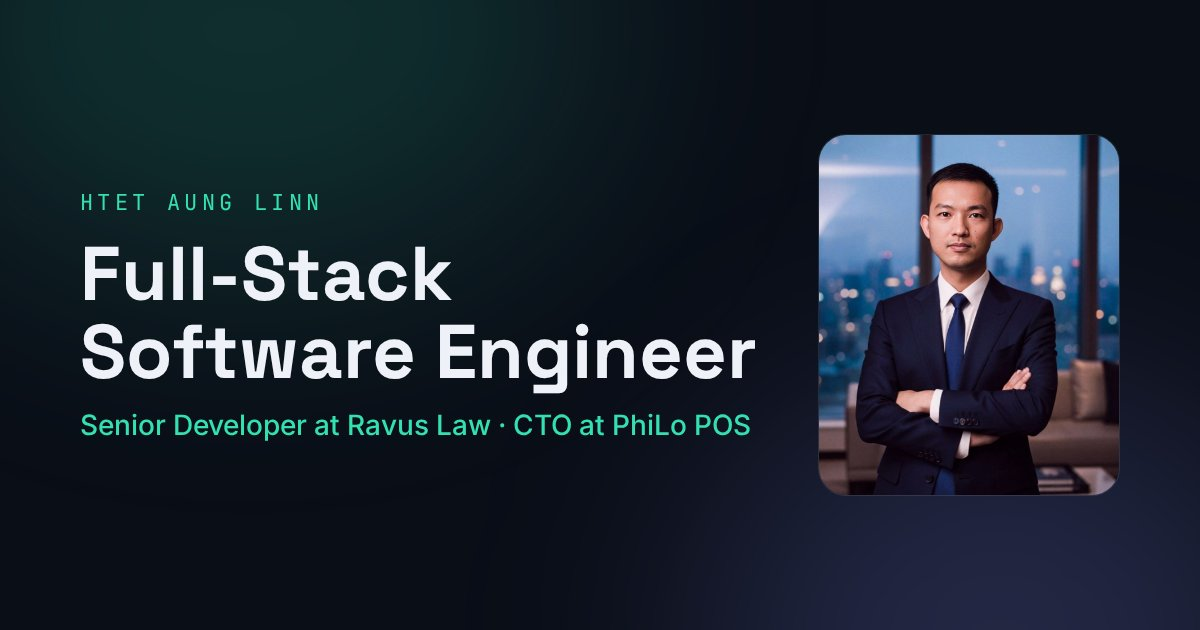
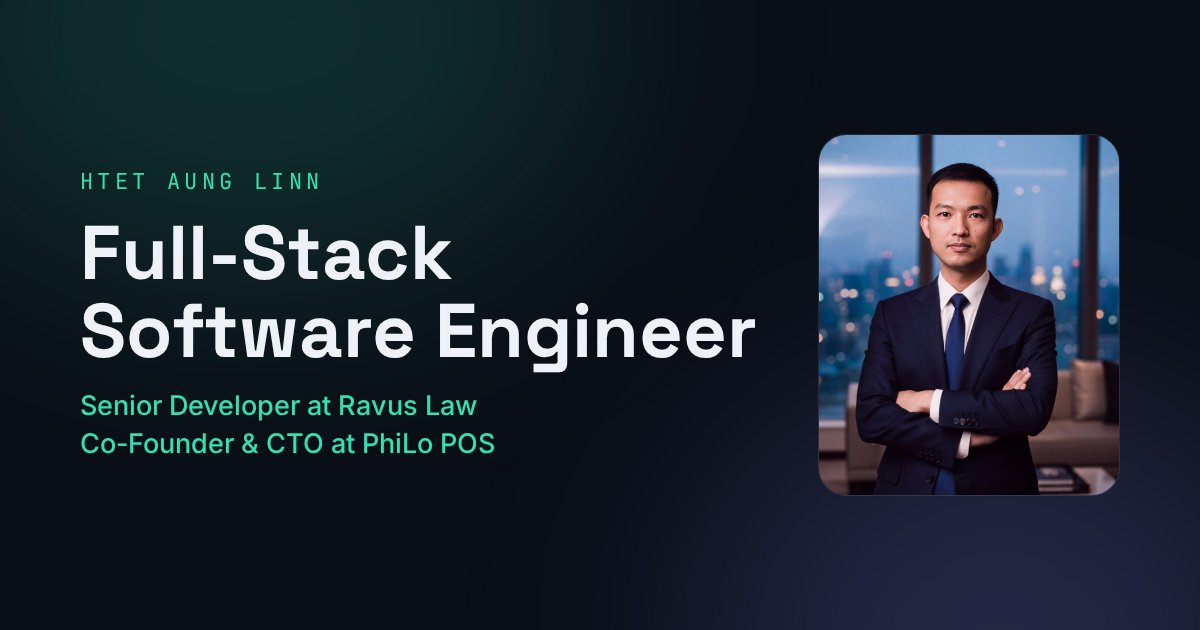
Update portfolio content: Co-Founder & CTO, PhiLo platforms, new screenshots
- PhiLo POS role is now "Co-Founder & CTO" everywhere: hero subtitle,
  role list and floating card, featured badge, About text, Experience
  entry, projects intro, and metadata/OG description and image.
- PhiLo POS product suite: show platforms as chips; the POS app runs on
  Android, iOS, Desktop (Windows), macOS and Web.
- Key features: "Kitchen & receipt printing — laser and thermal
  printers" and "Kitchen display (KDS) & barcode printing" replace
  "Kitchen printers & KDS" and "Barcode printing".
- Location is now Mandalay, Myanmar (hero tag and contact section).
- Add the illustrated workspace image to the About section as a framed,
  lazy-loaded feature image with a subtle hover zoom.
- Retake the Shan Naung Yoe and Estate Myanmar screenshots (1440x900).

Changed region(s): [[0.0617, 0.2714, 0.6475, 0.7238]]

diff --git a/components/sections/about.tsx b/components/sections/about.tsx
@@ -1,3 +1,4 @@
+import Image from "next/image";
 import SectionHeader from "@/components/site/section-header";
 import { Reveal, Stagger, StaggerItem } from "@/components/motion/reveal";
 import { whatIDo } from "@/utils/data/site";
@@ -7,6 +8,25 @@ export default function About() {
         <section id="about" aria-labelledby="about-title" className="border-t border-line py-24 lg:py-32">
             <div className="mx-auto max-w-6xl px-5 sm:px-8">
                 <SectionHeader id="about-title" eyebrow="About me" title="Building Scalable Software. Solving Real-World Problems." />
+                <Reveal className="mb-12 sm:mb-14">
+                    <figure className="group relative overflow-hidden rounded-3xl border border-line bg-surface p-1.5 shadow-2xl shadow-black/40 sm:p-2">
+                        <div
+                            className="pointer-events-none absolute -inset-px rounded-3xl bg-gradient-to-br from-mint/25 via-transparent to-iris/25 opacity-60 transition-opacity duration-500 group-hover:opacity-100"
+                            aria-hidden="true"
+                        />
+                        <div className="relative overflow-hidden rounded-[1.25rem] sm:rounded-[1.4rem]">
+                            <Image
+                                src="/about-workspace.webp"
+                                alt="Illustrated workspace of Htet Aung Linn showing PhiLo POS, Ravus Law and his tech stack"
+                                width={1536}
+                                height={1024}
+                                loading="lazy"
+                                sizes="(min-width: 1152px) 1104px, calc(100vw - 40px)"
+                                className="h-auto w-full transition-transform duration-700 ease-out will-change-transform group-hover:scale-[1.02]"
+                            />
+                        </div>
+                    </figure>
+                </Reveal>
                 <div className="grid gap-10 lg:grid-cols-[1.2fr_.8fr]">
                     <Reveal className="space-y-5 text-[17px] leading-relaxed text-ink-2">
                         <p>
@@ -14,7 +34,7 @@ export default function About() {
                             user-focused software solutions.
                         </p>
                         <p>
-                            Currently, I work as a Senior Developer at Ravus Law and serve as the Chief Technology Officer (CTO) of PhiLo POS, a
+                            Currently, I work as a Senior Developer at Ravus Law and serve as the Co-Founder and Chief Technology Officer (CTO) of PhiLo POS, a
                             point-of-sale software platform designed to help businesses streamline their daily operations.
                         </p>
                         <p className="text-ink-3">

diff --git a/utils/data/site.ts b/utils/data/site.ts
@@ -1,11 +1,11 @@
 export const personal = {
     name: "Htet Aung Linn",
     title: "Full-Stack Software Engineer",
-    subtitle: "Senior Developer at Ravus Law · CTO at PhiLo POS",
+    subtitle: "Senior Developer at Ravus Law · Co-Founder & CTO at PhiLo POS",
     email: "htetaunglinn443@gmail.com",
     phone: "+959779009919",
     phoneDisplay: "+95 9 779 009 919",
-    location: "Yangon, Myanmar",
+    location: "Mandalay, Myanmar",
     resume: "/HtetAungLinn.pdf",
     profile: "/profile.jpg",
 };
@@ -37,15 +37,22 @@ export const whatIDo = [
 
 export const featuredProject = {
     name: "PhiLo POS",
-    role: "CTO",
+    role: "Co-Founder & CTO",
     tagline: "Point-of-sale and inventory for shops and restaurants in Myanmar.",
     description: "A business software platform focused on sales management, inventory workflows, reporting, and operational efficiency.",
-    features: ["Sales & checkout", "Inventory & stock transfer", "Multi-branch", "Reports", "Kitchen printers & KDS", "Barcode printing"],
+    features: [
+        "Sales & checkout",
+        "Inventory & stock transfer",
+        "Multi-branch",
+        "Reports",
+        "Kitchen display (KDS) & barcode printing",
+        "Kitchen & receipt printing — laser and thermal printers",
+    ],
     apps: [
-        { name: "PhiLo POS app", platforms: "Android · Web" },
-        { name: "KDS app", platforms: "Android" },
-        { name: "PhiLo POS Manager", platforms: "Android · iOS" },
-        { name: "Admin panel", platforms: "Web" },
+        { name: "PhiLo POS app", platforms: ["Android", "iOS", "Desktop (Windows)", "macOS", "Web"] },
+        { name: "KDS app", platforms: ["Android"] },
+        { name: "PhiLo POS Manager", platforms: ["Android", "iOS"] },
+        { name: "Admin panel", platforms: ["Web"] },
     ],
     stack: ["PHP API", "TypeScript"],
     url: "https://philo.asia",
@@ -163,7 +170,7 @@ export const skillGroups: { title: string; items: { name: string; icon?: string 
 
 export const experience = [
     { role: "Senior Developer", org: "Ravus Law", text: "Professional software development involving application engineering, technical problem-solving, and maintainable software systems." },
-    { role: "Chief Technology Officer (CTO)", org: "PhiLo POS", link: { href: "https://philo.asia", label: "philo.asia" }, text: "A business software platform focused on sales management, inventory workflows, reporting, and operational efficiency." },
+    { role: "Co-Founder & Chief Technology Officer (CTO)", org: "PhiLo POS", link: { href: "https://philo.asia", label: "philo.asia" }, text: "A business software platform focused on sales management, inventory workflows, reporting, and operational efficiency." },
     { role: "PHP Internship", org: "Softguide", date: "Oct 2023" },
 ];
 

diff --git a/components/sections/projects.tsx b/components/sections/projects.tsx
@@ -58,10 +58,16 @@ function Featured() {
                     </Stagger>
                     <h4 className="mt-8 font-mono text-[11px] uppercase tracking-[0.18em] text-ink-3">The product suite</h4>
                     <ul className="mt-3 grid grid-cols-2 gap-2">
-                        {fp.apps.map((a) => (
-                            <li key={a.name} className="rounded-lg bg-white/[0.03] px-3 py-2.5">
+                        {fp.apps.map((a, i) => (
+                            <li key={a.name} className={`rounded-lg bg-white/[0.03] px-3 py-2.5 ${i === 0 ? "col-span-2" : ""}`}>
                                 <p className="text-sm font-medium text-ink">{a.name}</p>
-                                <p className="font-mono text-[11px] text-ink-3">{a.platforms}</p>
+                                <ul className="mt-1.5 flex flex-wrap gap-1.5" aria-label={`${a.name} platforms`}>
+                                    {a.platforms.map((p) => (
+                                        <li key={p} className="rounded-md border border-line bg-white/[0.03] px-2 py-0.5 font-mono text-[11px] text-ink-2">
+                                            {p}
+                                        </li>
+                                    ))}
+                                </ul>
                             </li>
                         ))}
                     </ul>
@@ -164,7 +170,7 @@ export default function Projects() {
                     id="projects-title"
                     eyebrow="Projects"
                     title="Products I’ve built and shipped"
-                    intro="From a point-of-sale platform I lead as CTO to client and team projects delivered for businesses in Myanmar and Japan."
+                    intro="From a point-of-sale platform I co-founded and lead as CTO to client and team projects delivered for businesses in Myanmar and Japan."
                 />
                 <Featured />
                 <Reveal>

diff --git a/components/sections/hero.tsx b/components/sections/hero.tsx
@@ -30,7 +30,7 @@ export default function Hero() {
                         <span className="bg-gradient-to-r from-ink via-ink to-mint bg-clip-text text-transparent">Software Engineer</span>
                     </motion.h1>
                     <motion.p variants={item} className="mt-5 text-lg font-medium text-mint">
-                        Senior Developer at Ravus Law <span className="text-ink-3">·</span> CTO at PhiLo POS
+                        Senior Developer at Ravus Law <span className="text-ink-3">·</span> Co-Founder &amp; CTO at PhiLo POS
                     </motion.p>
                     <motion.p variants={item} className="mt-6 max-w-xl text-[17px] leading-relaxed text-ink-2">
                         I build scalable web applications, robust backend systems, and practical software solutions that solve real-world problems.
@@ -58,7 +58,7 @@ export default function Hero() {
                         <li aria-hidden="true">/</li>
                         <li>Senior Developer</li>
                         <li aria-hidden="true">/</li>
-                        <li>CTO</li>
+                        <li>Co-Founder &amp; CTO</li>
                     </motion.ul>
                 </motion.div>
 
@@ -78,7 +78,7 @@ export default function Hero() {
                         transition={{ duration: 0.6, ease, delay: 0.7 }}
                         className="absolute -left-6 bottom-16 rounded-xl border border-line bg-surface-2/95 px-4 py-3 shadow-xl backdrop-blur sm:-left-10"
                     >
-                        <p className="font-mono text-[10px] uppercase tracking-wider text-ink-3">CTO</p>
+                        <p className="font-mono text-[10px] uppercase tracking-wider text-ink-3">Co-Founder &amp; CTO</p>
                         <p className="text-sm font-semibold text-ink">PhiLo POS</p>
                     </motion.div>
                     <motion.div

diff --git a/app/layout.tsx b/app/layout.tsx
@@ -10,7 +10,7 @@ const mono = JetBrains_Mono({ subsets: ["latin"], weight: ["400", "500"], variab
 const siteUrl = process.env.NEXT_PUBLIC_SITE_URL || "https://hal-three.vercel.app";
 const title = "Htet Aung Linn · Full-Stack Software Engineer";
 const description =
-    "Htet Aung Linn is a full-stack software engineer: Senior Developer at Ravus Law and CTO at PhiLo POS. Projects, skills, experience and contact.";
+    "Htet Aung Linn is a full-stack software engineer: Senior Developer at Ravus Law and Co-Founder & CTO at PhiLo POS. Projects, skills, experience and contact.";
 
 export const metadata: Metadata = {
     metadataBase: new URL(siteUrl),
